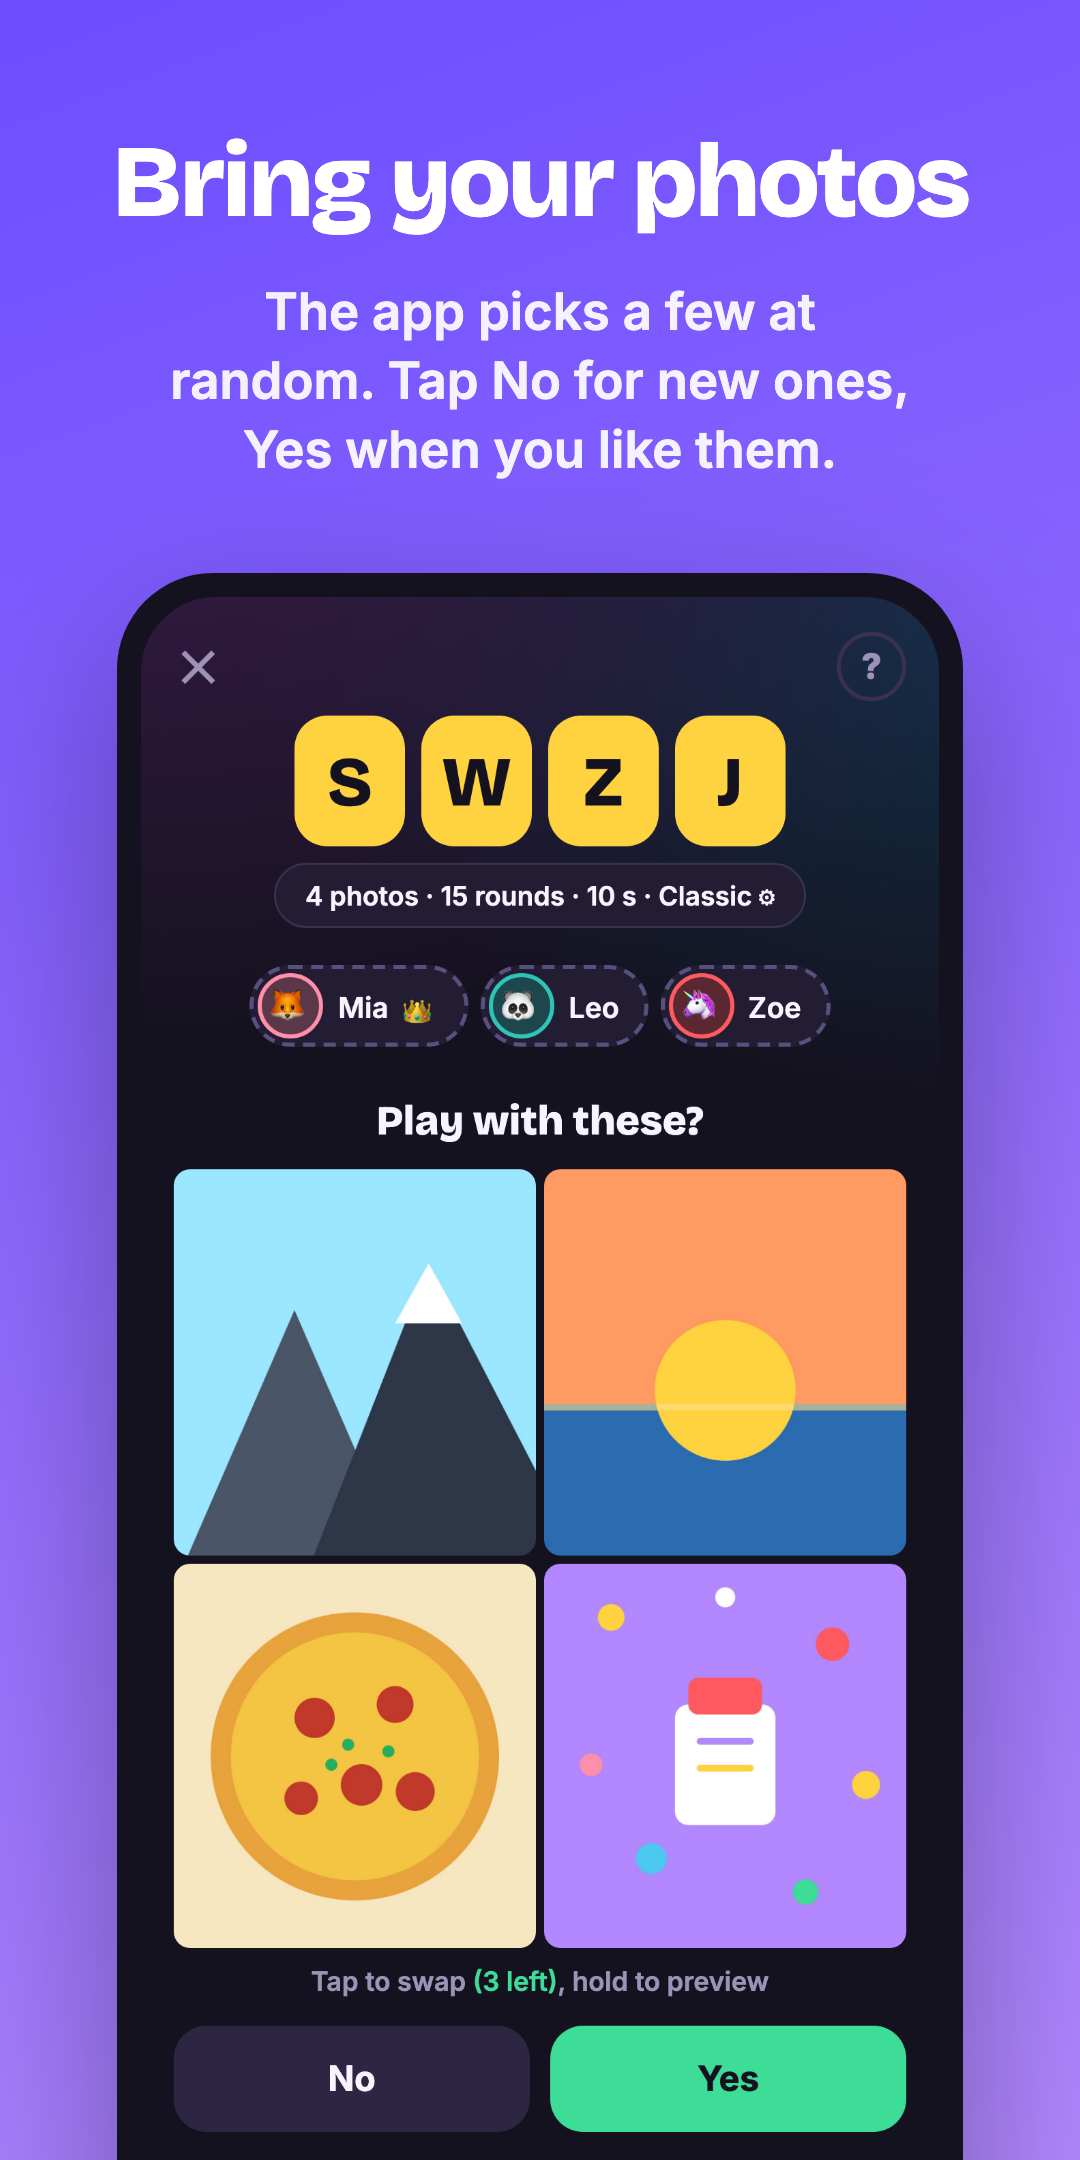
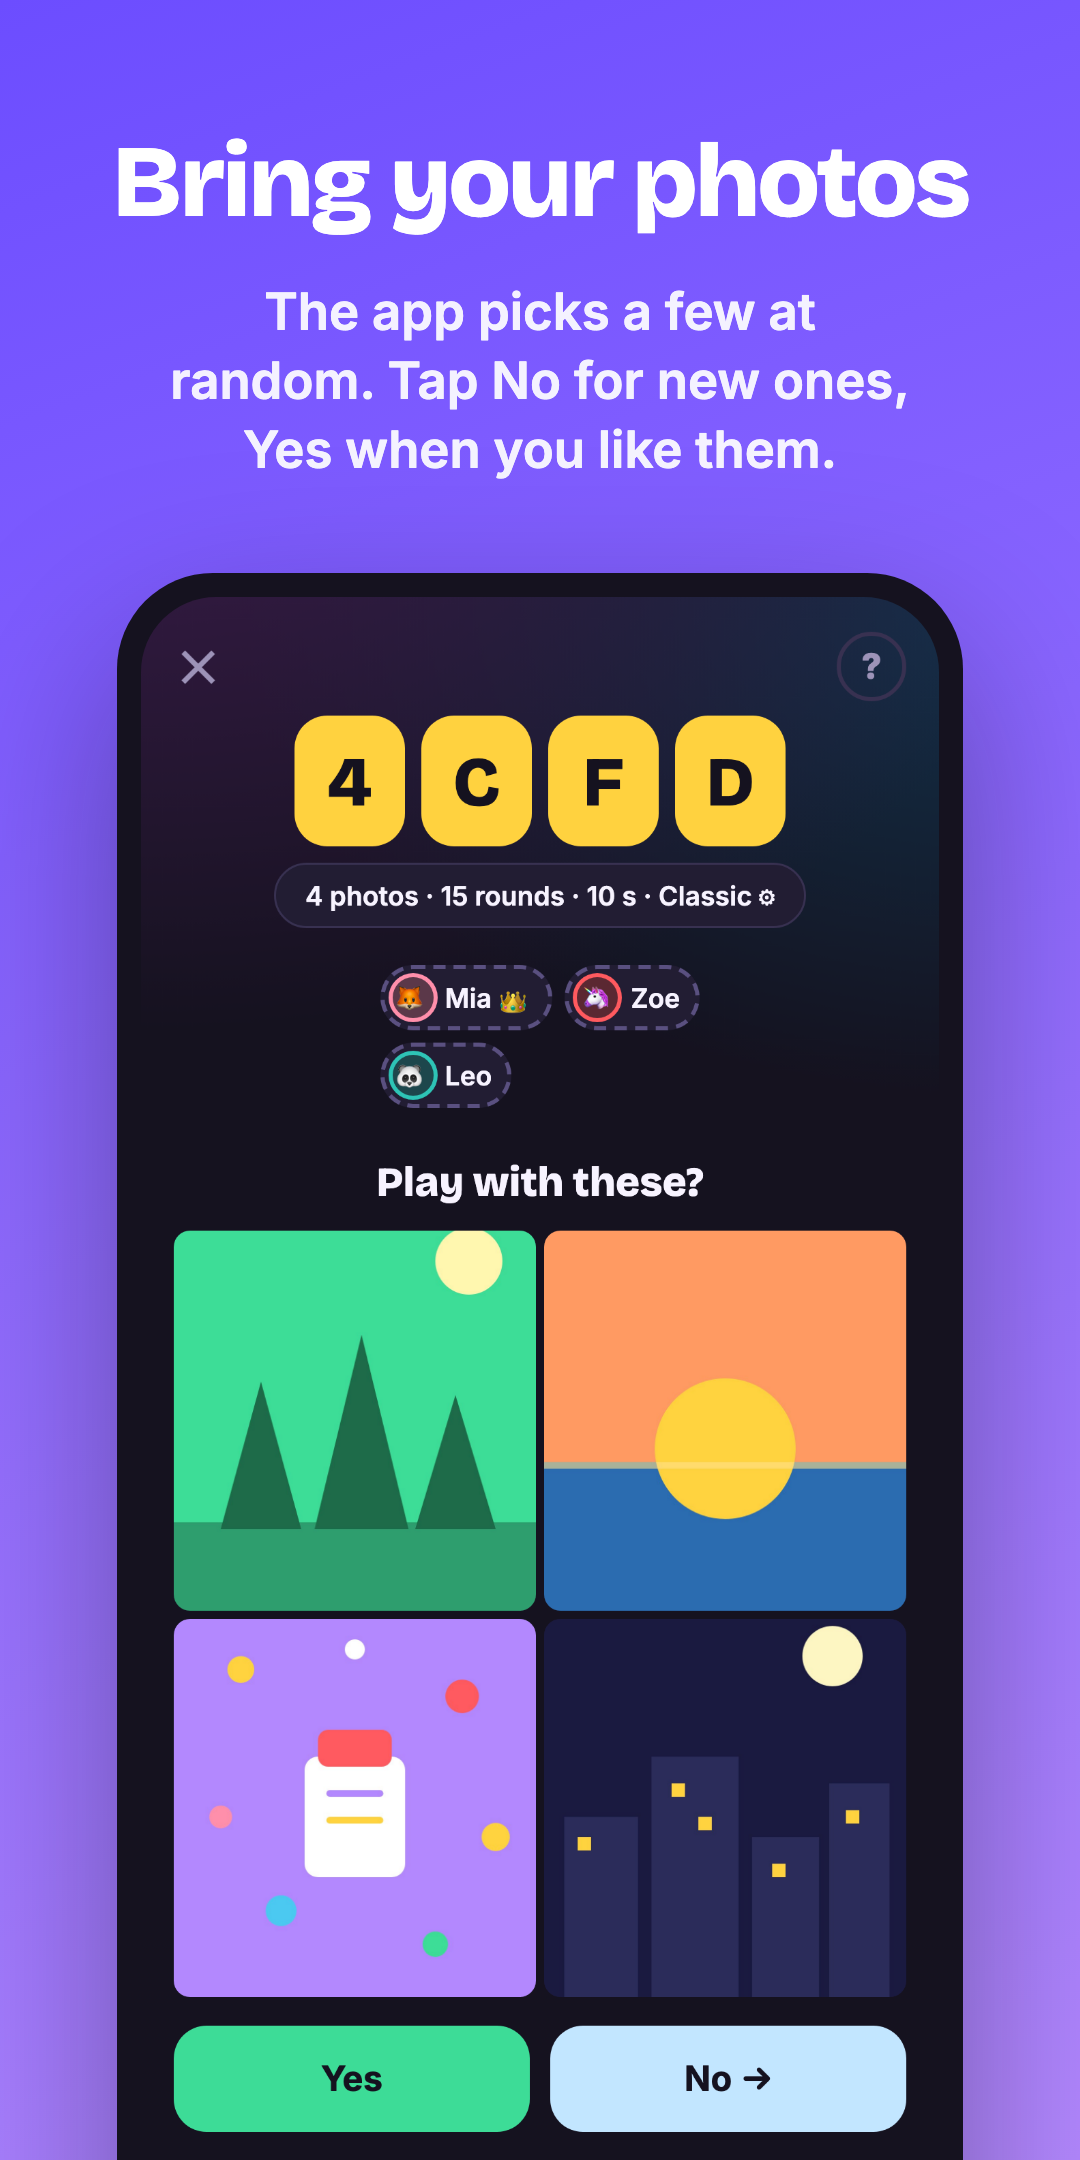
chore(release): lobby and start, commit 8 of its plan: version 1.0.9, its What's New and test steps, the store screenshots redrawn
1.0.9 carries this plan's work (the last Yes stamped START and asking "Is
everyone here?" on its own phone, the comic bubble for the last player, the
swap that shows what is left and "No →"'s slide, the 3-2-1's loading in its
film leader, the store's rating window after a close game) together with the
leaderboard's story and the streak's tower from main.

What's New names everything since 1.0.5, the version in App Review, as
before: the new start, the bubble, the swap and the slide, the loading, the
streaks and the leaderboard, plus 1.0.7's sentences. How to test describes
the START Yes and its "Is everyone here?" on the last phone. The store
screenshots of both stores are redrawn with the app as it is now (the photo
choice with Yes on the left and "No →" in ice blue, the leaderboard with the
leader's medal), so a release needs no --store-images.

README: the rating in a game's life. The plan: every commit done, the
operator's to-do list (deploy first, try on both phones, the rating window,
release with a new review video) and the decision log.

Not deployed and not released: ./scripts/deploy.sh comes first, then the
apps.

diff --git a/store/ios_listing.js b/store/ios_listing.js
@@ -28,14 +28,14 @@ const promotionalText = 'Your next party game is already on your phones: random 
  * What players notice in this version, in plain sentences: the App Store's "What's New"
  * (Apple takes it only for updates) and TestFlight's "What to Test" for this version's build.
  */
-const whatsNew = 'The 3, 2, 1 before the first photo now runs like the countdown at the start of an old film. Each answer comes step by step: first the card of whoever took the photo turns green, then yours if you were wrong, and your points rise off your card (or “Wrong”). In the lobby, the players take two rows that you can swipe sideways, so your photos stay big even with 16 players.';
+const whatsNew = 'Starting is quicker: whoever says Yes last sees START stamped on their Yes, and their tap starts the game for everyone. While the group waits for that last player, a comic speech bubble teases them on everyone else’s phone. Tap a photo to swap it: it turns over to show how many swaps you have left, then the new photo pops in, and No → slides in a whole new set. The 3, 2, 1 before the first photo runs like the countdown at the start of an old film and gets the photos ready right there. Each answer comes step by step: first the card of whoever took the photo turns green, then yours if you were wrong, and your points rise off your card (or “Wrong”). Right answers in a row build a tower of bonus points, and the leaderboard shows who overtakes whom, with a gold medal for the leader. In the lobby, the players take two rows that you can swipe sideways, so your photos stay big even with 16 players.';
 
 /** The test steps, for App Review (below its answers) and for TestFlight's beta review. */
 const howToTest = `HOW TO TEST
 A game needs at least two devices, each with a few photos.
 Device A: accept the terms, enter a name, tap Create game, keep Classic, tap Start game. A four letter code appears.
 Device B: accept the terms, enter a name, type the code, tap Join.
-On both: tap Continue and allow photo access. Tap No for other random photos, or Yes to play with them. When everyone is ready, the app asks “Is everyone here?”: tap Yes, start. Tap the player you think took the photo.
+On both: tap Continue and allow photo access. Tap No → for other random photos, or Yes to play with them. The last player’s Yes says START; in a group’s first game it asks “Is everyone here?” on that phone: tap Yes, start. Tap the player you think took the photo.
 
 PHOTOS AND SAFETY
 Only photos a player confirms with Yes leave the phone, and only to the players of that one game. Each photo is deleted from our server right after its round.

diff --git a/web/shared/config.js b/web/shared/config.js
@@ -32,7 +32,7 @@ export const APP = {
    * The app's version, restated from `package.json` (the page cannot read it; a test keeps
    * both equal). Every new version asks for the terms once more (`termsToken`).
    */
-  version: '1.0.8',
+  version: '1.0.9',
 };
 
 export const SERVER = {

diff --git a/docs/plans/2026-11-25-lobby-and-start.md b/docs/plans/2026-11-25-lobby-and-start.md
@@ -1,9 +1,9 @@
 # Lobby and start: the last Yes, the bubble, the photo choice, the 3-2-1's loading, the rating (plan)
 
-Status: planned on 25 November 2026 against `main` at 3829a5e (app 1.0.8), and being
-implemented on the branch `feat/lobby-and-start` in its own worktree
-(`.claude/worktrees/lobby-and-start`); each commit's status line in section 8 says how far it
-is. Another piece of work (the leaderboard's entrance in `web/js/board.js`, the streaks in
+Status: planned on 25 November 2026 against `main` at 3829a5e (app 1.0.8), implemented the
+same day on the branch `feat/lobby-and-start` in its own worktree
+(`.claude/worktrees/lobby-and-start`), all eight commits done, and merged into `main` (app
+1.0.9, not deployed or released yet: Operator handoff). Another piece of work (the leaderboard's entrance in `web/js/board.js`, the streaks in
 `web/js/streak.js`, with changes to the room's rules) was in progress, uncommitted, in the main
 folder at the same time and touches many of the same files. The operator chose to keep the two
 apart (25 November 2026): this branch starts from `main` as it was, and the two meet when they
@@ -62,24 +62,42 @@ to date with every commit.
   open-source rule. The legal page changed (one privacy sentence, "Licences", the date): it
   goes live with the next deploy, the app asks for the terms again with 1.0.9 anyway. To try:
   to do 3.
-- Next: commit 8 (the release), then the merge into `main` (The branch and the merge, above).
+- Commit 8: version 1.0.9 (`package.json`, `APP.version`); What's New names everything since
+  1.0.5 (the version in App Review), now with the new start, the bubble, the swap and slide,
+  the leader's loading, the streaks and the leaderboard's story; How to test describes the
+  START Yes; the store screenshots are redrawn (`node scripts/helpers/store-images.mjs`:
+  the photo choice with Yes left and "No →" in ice blue, the leaderboard with the leader's
+  medal) and committed, so the release needs no `--store-images`.
 
-**To do by hand, once the commits are in (in this order)**
-1. Deploy the server first (`./scripts/deploy.sh`, a critical command: the implementing agent
-   asks before it runs it). The new server keeps every installed app working (section 6), and
-   the new app needs it: on the old server its "Yes, start" would still make every phone ask
-   "Is everyone here?".
-2. Try it on a real iPhone and a real Android phone with the test players
-   (`docs/guides/demo-players.md`), as listed in commit 8 ("Try on both phones").
-3. The rating window: an iPhone build from Xcode (`./scripts/dev.sh ios`) always shows it
-   (Apple's development mode), TestFlight never does. On Android it only appears for an app
-   installed from Google Play (the internal testing track); a build from this Mac completes
-   silently. So the real check on Android waits for the Android release.
-4. Release 1.0.9 (`./scripts/release-apps.sh --store-images --submit`, after reading commit 8):
-   the store screenshot of the photo choice changes (Yes left, "No →" in ice blue, no hint
-   line), and the first App Review note mentions "Is everyone here?", which now is a sheet on
-   the last player's phone: record the review video again with the build that goes to review,
-   or reword the note (commit 8).
+**To do by hand (in this order)**
+1. **Deploy the server** (`./scripts/deploy.sh`, a critical command: ask Claude to run it, or
+   run it yourself). It carries both pieces of work: the group's game count and the confirmed
+   last Yes from this plan, the streak's results and the leaderboard's time from the other
+   plan, and the legal page of 25 November 2026. It keeps every installed app working
+   (section 6), and 1.0.9 needs it: on the old server its "Yes, start" would make every phone
+   ask "Is everyone here?".
+2. **Try 1.0.9 on a real iPhone and a real Android phone** with the test players
+   (`docs/guides/demo-players.md`), what the browser tests cannot feel:
+   - the START stamp landing and Yes moving left; "Is everyone here?" on the last phone;
+   - the bubble: its slide in from a side, the chorus, the bulging fat text, the pop-art dots,
+     a 16-letter name, on the iPhone SE size and an iPad; it never covers a tap;
+   - a swap: the turn, the number, the pop, the ✕ on the last swap and on a refused tap, with
+     the vibrations; "No →"'s slide (snappy, no flicker, nothing scrolls);
+   - the 3-2-1's loading on a slow network (Low Data Mode or a throttled Wi-Fi), the ring
+     filling and the cut to the 3;
+   - each of these with Reduce Motion on.
+3. **The rating window**: an iPhone build from Xcode (`./scripts/dev.sh ios`) usually shows it
+   every time (Apple's development mode), TestFlight never does: play three games with the
+   test players under one code, the third one close (the test players answer at random, so it
+   may take a try). On Android it appears only in an app installed from Google Play (the
+   internal testing track); a build from this Mac completes silently, so the real check there
+   waits for the Android release.
+4. **Release 1.0.9** (`./scripts/release-apps.sh --submit`, or `ios` first). The other plan's
+   handoff (`docs/plans/2026-11-22-game-feel-overhaul.md`, to do 3 to 5) says where each store
+   stands: 1.0.5 in App Review, 1.0.7 and 1.0.8 in TestFlight, the Android keys to restore
+   first. The first App Review note says the attached video was made with the build under
+   review and shows "Is everyone here?" (now a sheet on the last player's phone): record the
+   video again with the 1.0.9 build, or change that note in `store/ios_listing.js`.
 
 ## 1. What the operator asked for
 
@@ -1001,7 +1019,9 @@ of `com.google.android.play:review` and Apple's `AppStore.requestReview` first (
 
 ### Commit 8: release: version 1.0.9, store texts and images, docs
 
-Status: planned.
+Status: done (25 November 2026; its decisions in section 11). The "Try on both phones" list
+below is kept as planned; the Operator handoff (to do 2) has the version that matches the app
+(the bubble is opaque, round 5).
 
 - `package.json` and `APP.version` to 1.0.9 (the test keeps them equal).
 - `store/ios_listing.js`: What's New (the start with the START stamp, the bubble, the photo
@@ -1237,3 +1257,24 @@ Status: planned.
   the fold inside the sheet), as a long sheet does; on usual phones everything fits.
 - **The legal page's date moves to 25 November 2026** (`LEGAL.version`); 1.0.9 shows the terms
   once more anyway, as every new version does.
+
+**25 November 2026, commit 8 (the release) and the merge into `main`**
+
+- **What's New names everything since 1.0.5**, the version in App Review, as 1.0.7's did:
+  the leaderboard's story and the streaks (from the other plan) ship in 1.0.9 too, so they are
+  in it, in one sentence; the rest is this plan's work and 1.0.7's text, unchanged.
+- **The store screenshots were redrawn in this commit** (all eight that changed, both
+  stores), not at release time: the images in the repo then match the app, and `--submit`
+  uploads them as they are.
+- **The first review note stays as it is**: it is true once the video is recorded with 1.0.9
+  (to do 4); rewording it for an old video would describe a build Apple does not review.
+- **The speed test's "No" limit (250 ms) failed twice on this branch, both times while other
+  sessions loaded this Mac** (load averages of 24 and 33): one tap of twenty took 330 ms, and
+  in another run 820 ms, the rest 4 to 99 ms. Every run at normal load stayed under 100 ms
+  (before and after "No →"'s slide); a run before the merge already had one at 168 ms. The
+  rerun passed. If it fails at normal load, look at the bucket (`photos.js`): a "No" waits
+  only when the bucket has no set ready.
+- **The branch went into `main` as a fast-forward**: `main` had not moved since it was merged
+  into the branch, so there was nothing left to resolve; the main folder's untracked copy of
+  `drafts/bubble_animations` was compared with the committed one (identical) and removed first,
+  so git could write the committed one in its place.

diff --git a/README.md b/README.md
@@ -93,9 +93,10 @@ stops the clock; when its time is up it waits until every phone holds the next r
 photo) → *end*. The last photo's reveal goes straight to *end*, and the board before it says
 only "FINAL ROUND", so the standings stay secret until the podium. "Play again" is
 anyone's: the first tap opens the next game under the same code, the others join it when
-they are done looking at the results. An app gets a full snapshot whenever what it shows
-changed (with the photo's owner hidden until the reveal) and counts every timer down to its
-end on the server's clock.
+they are done looking at the results. From a group's 3rd game on, the end of a close game
+asks each phone still on it for the store's own rating window (once per app start). An app
+gets a full snapshot whenever what it shows changed (with the photo's owner hidden until the
+reveal) and counts every timer down to its end on the server's clock.
 
 **Photos.** With the player's permission, the app picks n random photos on the phone and
 shows small previews. A bucket of checked previews (and the big versions of the next set,
